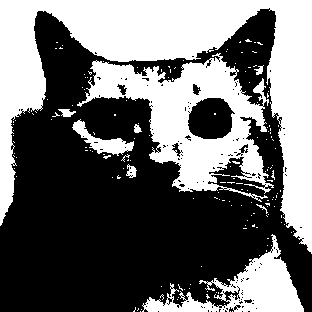
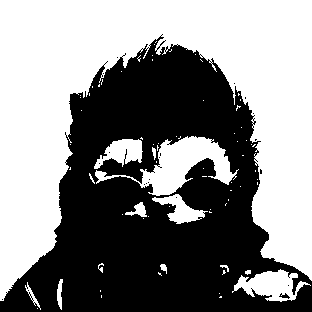
checkpoint adjustments

diff --git a/src/main.rs b/src/main.rs
@@ -1,22 +1,28 @@
-use image::{DynamicImage, ImageReader, Rgb};
+use image::{ImageReader, Rgb, RgbImage};
 
 fn main() -> Result<(), Box<dyn std::error::Error>> {
-    let img = ImageReader::open("src/qais.png")?.decode()?;
-    let mut buffer = img.clone().into_rgb8();
-    let dither = 160;
+    let import_img = ImageReader::open("src/qais.png")?.decode()?;
+    let mut buffer = import_img.clone().into_rgb8();
+    let dither = 135;
+    let (width,height) = buffer.dimensions();
+    let mut img = RgbImage::new(width,height);
+    let method = 0;
 
-    for (x,y,pixel) in buffer.enumerate_pixels_mut(){
-
-        if (pixel[0] < dither) && (pixel[1] < dither) && (pixel[2] < dither){
-            *pixel = Rgb([0,0,0]);
-
-        }else{
-            *pixel = Rgb([255,255,255])
+    if method == 1 {
+        for (x,y,pixel) in buffer.enumerate_pixels_mut(){
+            if (pixel[0] < dither) && (pixel[1] < dither) && (pixel[2] < dither){
+                img.put_pixel(x,y,Rgb([0,0,0]));
+            }else{
+                img.put_pixel(x,y,Rgb([255,255,255]));
+            }
         }
+        img.save("mqyas.png").unwrap();
+        println!("image saved");
     }
-    println!("{:?}", buffer);
 
-    buffer.save("mqyas.png").unwrap();
-    println!("image saved");
+    if method == 2 {
+
+    }
+
     Ok(())
 }